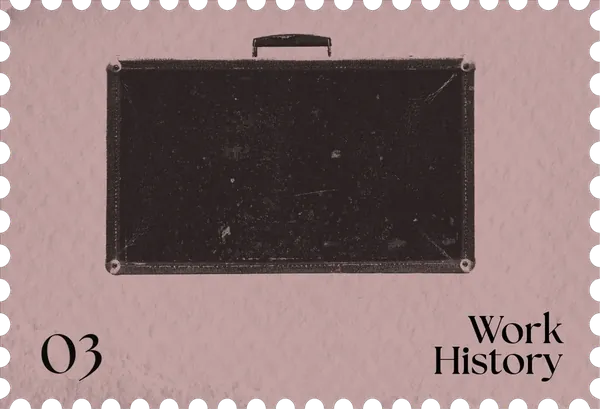
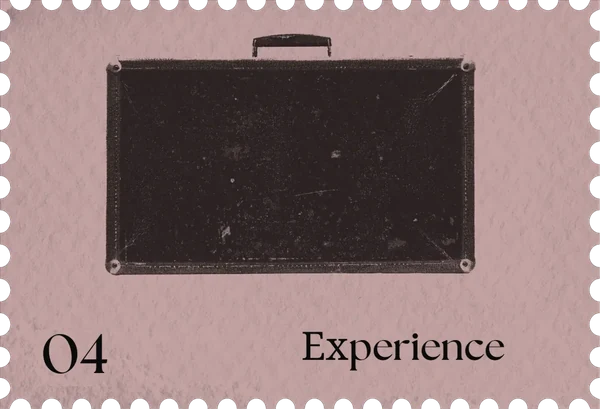
Split Websites and Projects into separate stamps, rename Experience stamp, sort Experience by end date, hide unfinished entries, add Ignite dates and GearBook role
Claude-Session: https://claude.ai/code/session_01WiGBB4NMhjYwrf1FyWGJx7

Changed region(s): [[0.51, 0.7628, 0.96, 0.9389], [0.06, 0.8215, 0.18, 0.9389]]

diff --git a/src/lib/content.ts b/src/lib/content.ts
@@ -1,7 +1,7 @@
 import { urlFor } from './sanity';
 import { SEED_PHOTOGRAPHY, PROFILE_PHOTO, BIO_SHORT, EDUCATION, FUN_NOTE, SEED_CRAFTS, SEED_EXPERIENCE, SEED_POSTERS, SEED_PROJECTS } from './seed';
 
-export type SectionId = 'projects' | 'posters' | 'experience' | 'about' | 'crafts' | 'photography';
+export type SectionId = 'websites' | 'projects' | 'posters' | 'experience' | 'about' | 'crafts' | 'photography';
 
 export interface Section {
   id: SectionId;
@@ -37,6 +37,8 @@ export interface Project {
   title: string; slug: string; summary?: string; featured?: boolean; year?: number;
   disciplines?: string[]; role?: string; heroImage?: string; /** Card cover; falls back to heroImage */ cover?: string; images?: string[]; imageAlts?: string[]; accent?: string;
   videoUrl?: string; href?: string; linkLabel?: string;
+  /** Kept in the data but not shown anywhere until it has content. */
+  hidden?: boolean;
   stack?: Partial<Record<StackGroup, string[]>>;
   /** Optional case-study extras, rendered the same way on any project detail page. */
   extras?: ProjectExtras;
@@ -67,6 +69,8 @@ export interface ProjectExtras {
   cursorIcons?: string[];
 }
 export interface Craft {
+  /** Kept in the data but not shown until it has content. */
+  hidden?: boolean;
   title: string; slug: string; summary?: string; year?: number; role?: string;
   /** Card cover: one animated image (gif or animated webp). */
   cover?: string; /** Large image on the detail page. */ heroImage?: string; image?: string; notes?: string;
@@ -125,7 +129,6 @@ function extrasHtml(p: Project) {
   const notes = (x.notes || []).map((n) => `<div class="xnote"><h3>${esc(n.heading)}</h3><p>${esc(n.body)}</p></div>`).join('');
   return `<div class="detail-extra">${figs ? `<div class="xfigs">${figs}</div>` : ''}${stats ? `<dl class="xstats">${stats}</dl>` : ''}${notes ? `<div class="xnotes">${notes}</div>` : ''}</div>`;
 }
-const GROUPS = ['Developments', 'Websites', 'Branding', 'Projects', 'Ignite Adaptive Sports'];
 /** Cards plus full-screen detail pages, shared by Projects and Crafts. */
 function workViews(items: Project[], noun: string, defaultMeta: string) {
   const c = { projects: items };
@@ -140,7 +143,7 @@ function workViews(items: Project[], noun: string, defaultMeta: string) {
       <span class="card-img${cardCover(p) ? ' has-img' : ''}" style="--c:${safeColor(p.accent) || accents[i % accents.length]}">${cardCover(p) ? `<img class="card-photo" src="${esc(encodeURI(cardCover(p)))}" alt="" loading="lazy" decoding="async">` : ''}</span>
       <span class="card-over"><span class="card-name">${esc(p.title)}</span><span class="card-sub">${esc([p.role, p.year].filter(Boolean).join(' · '))}</span></span>
     </button>`;
-  const siblings = (p: Project) => c.projects.filter((q) => (q.disciplines || [])[0] === (p.disciplines || [])[0]);
+  const siblings = (_p: Project) => c.projects;
   const stepper = (p: Project) => {
     const sib = siblings(p);
     if (sib.length < 2) return '';
@@ -170,17 +173,22 @@ function workViews(items: Project[], noun: string, defaultMeta: string) {
     </div>`;
   return { card, detail };
 }
-function projectsHtml(c: SiteContent) {
-  const { card, detail } = workViews(c.projects, 'project', 'Project');
-  const groups = [...new Set([...GROUPS, ...c.projects.flatMap((p) => p.disciplines || [])])];
-  const html = groups.map((g) => {
-    const items = c.projects.filter((p) => (p.disciplines || [])[0] === g);
-    return items.length ? `<section><h2 class="group"><span>${esc(g)}</span></h2><div class="cards">${items.map(card).join('')}</div></section>` : '';
-  }).join('');
-  return `${html}${c.projects.map(detail).join('')}${todo('Titles are from Matt’s list. Images, descriptions and links are still to come.')}`;
+/** Websites and Projects are separate stamps: a site is a Project whose first discipline is "Websites". */
+export const isSite = (p: Project) => (p.disciplines || [])[0] === 'Websites';
+function worksHtml(items: Project[], noun: string, defaultMeta: string, note: string) {
+  const { card, detail } = workViews(items, noun, defaultMeta);
+  return `<section><div class="cards">${items.map(card).join('')}</div></section>${items.map(detail).join('')}${todo(note)}`;
 }
+const websitesHtml = (c: SiteContent) => worksHtml(c.projects.filter(isSite), 'website', 'Website', 'More sites are on the way.');
+const projectsHtml = (c: SiteContent) => worksHtml(c.projects.filter((p) => !isSite(p)), 'project', 'Project', 'More projects are on the way.');
+const MONTHS = ['jan', 'feb', 'mar', 'apr', 'may', 'jun', 'jul', 'aug', 'sep', 'oct', 'nov', 'dec'];
+/** "August 2025" -> a sortable number; missing or unreadable dates give -1. */
+const when = (d = '') => { const m = d.match(/([a-z]{3})[a-z]*\.?\s+(\d{4})/i); const y = d.match(/\d{4}/); return m ? +m[2] * 12 + Math.max(0, MONTHS.indexOf(m[1].toLowerCase())) : y ? +y[0] * 12 : -1; };
+const isOpen = (e: Experience) => !e.endDate || /present|current|now/i.test(e.endDate);
+/** Open roles first, then by end date (newest first); ties go to the later start. */
+const byEnd = (a: Experience, b: Experience) => (+isOpen(b) - +isOpen(a)) || (isOpen(a) ? 0 : when(b.endDate) - when(a.endDate)) || when(b.startDate) - when(a.startDate);
 function experienceHtml(c: SiteContent) {
-  const items = c.experience.map((e) => {
+  const items = [...c.experience].sort(byEnd).map((e) => {
     const head = `<span class="meta">${esc(dates(e))}</span><h2>${esc(e.role)}, ${esc(e.organization)}</h2>`;
     return e.description
       ? `<li><details class="job"><summary>${head}<span class="job-toggle" aria-hidden="true"></span></summary><p>${esc(e.description)}</p></details></li>`
@@ -240,27 +248,33 @@ function aboutHtml() {
     <p class="meta">Elsewhere</p><ul class="links">${links}<li><a href="mailto:${SITE.email}">${SITE.email}</a></li></ul>`;
 }
 
+/** Drops entries flagged hidden. */
+const visible = (c: SiteContent): SiteContent => ({ ...c, projects: c.projects.filter((p) => !p.hidden), crafts: c.crafts.filter((k) => !k.hidden) });
+
 /** Plain, text-only outline of the whole site, rendered into the static HTML (inside <noscript>) for crawlers, link readers and no-JS visitors. */
-export function outlineHtml(c: SiteContent): string {
+export function outlineHtml(all: SiteContent): string {
+  const c = visible(all);
   const li = (t: string, d?: string) => `<li><strong>${esc(t)}</strong>${d ? ` ${esc(d)}` : ''}</li>`;
-  const groups = [...new Set(c.projects.flatMap((p) => (p.disciplines || [])[0] || []))];
   return `<h1>${esc(SITE.name)}, ${esc(SITE.role)}</h1>
 <h2>About</h2>${BIO_SHORT.map((t) => `<p>${esc(t)}</p>`).join('')}
-<h2>Projects</h2>${groups.map((g) => `<h3>${esc(g)}</h3><ul>${c.projects.filter((p) => (p.disciplines || [])[0] === g).map((p) => li(p.title, [p.role, p.year].filter(Boolean).join(', '))).join('')}</ul>`).join('')}
-<h2>Experience</h2><ul>${c.experience.map((e) => li(`${e.role}, ${e.organization}`, dates(e))).join('')}</ul>
+<h2>Websites</h2><ul>${c.projects.filter(isSite).map((p) => li(p.title, [p.role, p.year].filter(Boolean).join(', '))).join('')}</ul>
+<h2>Projects</h2><ul>${c.projects.filter((p) => !isSite(p)).map((p) => li(p.title, [p.role, p.year].filter(Boolean).join(', '))).join('')}</ul>
+<h2>Experience</h2><ul>${[...c.experience].sort(byEnd).map((e) => li(`${e.role}, ${e.organization}`, dates(e))).join('')}</ul>
 <h2>Crafts</h2><ul>${c.crafts.map((k) => li(k.title, k.role)).join('')}</ul>
 <h2>Elsewhere</h2><ul>${SITE.links.map((l) => `<li><a href="${esc(l.href)}">${esc(l.label)}</a></li>`).join('')}<li><a href="mailto:${SITE.email}">${SITE.email}</a></li></ul>`;
 }
 
-export function buildSections(c: SiteContent): Section[] {
+export function buildSections(all: SiteContent): Section[] {
+  const c = visible(all);
   const L = (id: SectionId, no: string, label: string, stampName: string, art: string, html: string): Section => ({ id, no, label, stampName, orientation: 'landscape', ratio: 1658 / 1130, alt: `${stampName} stamp, ${art}`, html });
   return [
-    L('projects', '01', 'Projects', 'Web & Graphic Design', 'a vintage computer', projectsHtml(c)),
-    L('posters', '02', 'Posters', 'Posters', 'two printed posters', postersHtml(c)),
-    L('experience', '03', 'Experience', 'Work History', 'a vintage suitcase', experienceHtml(c)),
-    L('crafts', '04', 'Crafts', 'Crafts', 'six pieces of pottery', craftsHtml(c)),
-    L('photography', '05', 'Photography', 'Photography', 'a Minolta X-700 film camera', photographyHtml(c)),
-    L('about', '06', 'About', 'About', 'a halftone portrait of Matt', aboutHtml()),
+    L('websites', '01', 'Websites', 'Websites', 'a vintage computer', websitesHtml(c)),
+    L('projects', '02', 'Projects', 'Projects', 'a stack of project work', projectsHtml(c)),
+    L('posters', '03', 'Posters', 'Posters', 'two printed posters', postersHtml(c)),
+    L('experience', '04', 'Experience', 'Experience', 'a vintage suitcase', experienceHtml(c)),
+    L('crafts', '05', 'Crafts', 'Crafts', 'six pieces of pottery', craftsHtml(c)),
+    L('photography', '06', 'Photography', 'Photography', 'a Minolta X-700 film camera', photographyHtml(c)),
+    L('about', '07', 'About', 'About', 'a halftone portrait of Matt', aboutHtml()),
   ];
 }
 

diff --git a/src/lib/seed.ts b/src/lib/seed.ts
@@ -23,13 +23,14 @@ export const FUN_NOTE = 'Owner of a 2003 Eurovan!';
 
 export const SEED_EXPERIENCE: Experience[] = [
   { organization: 'GVC', role: 'Graphic Design, 3D Modelling, Web Design', startDate: 'August 2025', endDate: 'Present', description: 'Full-time graphic designer on the Gasdaska Verdiglione Conlon Team at Douglas Elliman. Designs and builds marketing websites for new developments, including Le Rêve and Casa Avenida, alongside graphic design and 3D modelling for the team.' },
+  { organization: 'GearBook, Boulder, CO', role: 'Co-founder & CMO', startDate: '2025', endDate: 'Present', description: 'Co-founded an affiliate gear catalog for outdoor professionals with Luke Wong. Handles design, development, content, marketing, partner integrations and the legal side, and has signed up 15 members so far.' },
   { organization: 'Trimble', role: 'Business Systems Management & Design', startDate: 'May 2025', endDate: 'August 2025', description: 'Created intranet pages for the DevOps, Change Management and Business Systems teams, and wrote posts that kept stakeholders up to date on Trimble’s software development cycle. Designed a brand identity for the Business Systems team, including a logo, marketing assets and a voice.' },
   { organization: 'Environmental Center, University of Colorado Boulder', role: 'Graphic Designer', startDate: 'May 2022', endDate: 'August 2025', description: 'Designed social posts promoting sustainability and an eco-conscious mindset across the campus community. Grew engagement by 10% and helped build the largest audience the account has had in its ten years, reaching 52,886 people in a single month.' },
   { organization: 'millerBlaker, Bronx, NY', role: 'Associate Project Manager & Intern on Engineering Team', startDate: 'May 2024', endDate: 'August 2024', description: 'Worked through the full architectural millwork workflow: client relations, drafting, engineering, estimating and in-house fabrication. Contributed to high-profile projects including Google team pods, Morgan Stanley and L’Oréal.' },
   { organization: 'Free Float Media LLC, Boulder, CO', role: 'Web Developer', startDate: 'May 2023', endDate: 'October 2023', description: 'Strengthened brand recognition and cohesion for Free Float Media across several websites and social channels, and reviewed and improved digital design and layout.' },
   { organization: 'Gravity Vault Indoor Rock Climbing, Upper Saddle River, NJ', role: 'Instructor', startDate: 'May 2022', endDate: 'August 2023' },
   { organization: 'Woodward Camps, Woodward, PA', role: 'Recreational Staff', startDate: 'May 2021', endDate: 'August 2022' },
-  { organization: 'Ignite Adaptive Sports', role: 'Pro Bono Graphic Design & Event Marketing, On-Snow Volunteer', description: 'Unpaid design and event marketing work for a nonprofit that opens up snowsports to athletes of all ages, disabilities and financial circumstances at Eldora Mountain Resort, plus on-snow volunteering that supports athletes in their lessons.' },
+  { organization: 'Ignite Adaptive Sports', role: 'Pro Bono Graphic Design & Event Marketing, On-Snow Volunteer', startDate: 'May 2026', endDate: 'Present', description: 'Unpaid design and event marketing work for a nonprofit that opens up snowsports to athletes of all ages, disabilities and financial circumstances at Eldora Mountain Resort, plus on-snow volunteering that supports athletes in their lessons.' },
 ];
 
 const asset = (path: string) => `${process.env.NEXT_PUBLIC_BASE_PATH || ''}${path}`;
@@ -188,8 +189,8 @@ export const SEED_PROJECTS: Project[] = [
     heroImage: asset('/projects/trimble-business-systems/01.webp'),
     images: ['03'].map((n) => asset(`/projects/trimble-business-systems/${n}.webp`)),
   }),
-  p('Opus', 'Branding', { summary: 'In progress.' }),
-  p('Essays In Bloom', 'Branding', { summary: 'In progress.' }),
+  p('Opus', 'Branding', { summary: 'In progress.', hidden: true }),
+  p('Essays In Bloom', 'Branding', { summary: 'In progress.', hidden: true }),
   p('CU Skate Forge', 'Projects', {
     role: 'Founder & President',
     year: 2023,
@@ -235,8 +236,8 @@ export const SEED_CRAFTS: Craft[] = [
     images: ['01', '02', '03', '05', '06'].map((n) => craftImg('skate-rings', n)),
     imageAlts: ['Stripped skateboard decks and cut yellow and teal plywood pieces on a workbench', 'Close-up of the colored plywood layers in a sanded skateboard deck', 'Three finished skate rings and a pendant on a striped teal display block', 'A skate ring on a plaster hand', 'Pencil sketches of ring shapes on grid paper'],
   },
-  { title: 'Pottery', slug: 'pottery' },
-  { title: 'Recycled Climbing Rope Crafts', slug: craftSlug('Recycled Climbing Rope Crafts') },
+  { title: 'Pottery', slug: 'pottery', hidden: true },
+  { title: 'Recycled Climbing Rope Crafts', slug: craftSlug('Recycled Climbing Rope Crafts'), hidden: true },
 ];
 
 

diff --git a/src/lib/engine.ts b/src/lib/engine.ts
@@ -55,24 +55,26 @@ let logoCleanup = () => {};
 
 /* ---------- stamps ---------- */
 const stampEls = new Map<SectionId, HTMLButtonElement>();
-const tilt: Record<SectionId, number> = { projects: -4, posters: 2, experience: 3, about: -2, crafts: 4, photography: -3 };
+const tilt: Record<SectionId, number> = { websites: -4, projects: 3, posters: 2, experience: 3, about: -2, crafts: 4, photography: -3 };
 
 interface NavSpot { x: number; y: number; w: number }
 const navDesktop: Record<SectionId, NavSpot> = {
-  projects: { x: 0.2, y: 0.32, w: 0.21 },
-  posters: { x: 0.5, y: 0.27, w: 0.21 },
-  experience: { x: 0.8, y: 0.34, w: 0.21 },
-  crafts: { x: 0.22, y: 0.7, w: 0.21 },
-  photography: { x: 0.5, y: 0.72, w: 0.21 },
-  about: { x: 0.79, y: 0.68, w: 0.21 },
+  websites: { x: 0.14, y: 0.3, w: 0.2 },
+  projects: { x: 0.38, y: 0.26, w: 0.2 },
+  posters: { x: 0.62, y: 0.32, w: 0.2 },
+  experience: { x: 0.86, y: 0.27, w: 0.2 },
+  crafts: { x: 0.24, y: 0.7, w: 0.2 },
+  photography: { x: 0.5, y: 0.73, w: 0.2 },
+  about: { x: 0.77, y: 0.68, w: 0.2 },
 };
 const navMobile: Record<SectionId, NavSpot> = {
-  projects: { x: 0.25, y: 0.2, w: 0.4 },
-  posters: { x: 0.75, y: 0.17, w: 0.4 },
-  experience: { x: 0.25, y: 0.49, w: 0.4 },
-  crafts: { x: 0.75, y: 0.52, w: 0.4 },
-  photography: { x: 0.25, y: 0.8, w: 0.4 },
-  about: { x: 0.75, y: 0.83, w: 0.4 },
+  websites: { x: 0.25, y: 0.14, w: 0.4 },
+  projects: { x: 0.75, y: 0.12, w: 0.4 },
+  posters: { x: 0.25, y: 0.34, w: 0.4 },
+  experience: { x: 0.75, y: 0.37, w: 0.4 },
+  crafts: { x: 0.25, y: 0.58, w: 0.4 },
+  photography: { x: 0.75, y: 0.61, w: 0.4 },
+  about: { x: 0.5, y: 0.84, w: 0.4 },
 };
 /* Phones: a slight random tilt for each stamp (2 to 5 degrees, either way), fresh on every load. */
 if (window.innerWidth < 640) for (const id of Object.keys(tilt) as SectionId[]) tilt[id] = (Math.random() < 0.5 ? -1 : 1) * (2 + Math.random() * 3);
@@ -219,7 +221,7 @@ function miniSlots() {
 }
 function placeMini(id: SectionId, slot: number) {
   if (isSplit()) {
-    // One column down the left of the dark panel, all six stamps in fixed slots, above the heading.
+    // One column down the left of the dark panel, all seven stamps in fixed slots, above the heading.
     const cw = colWidth(), H = stage.clientHeight;
     const pad = Math.min(44, Math.max(24, stage.clientWidth * 0.03));
     const top = 48, bottom = 210, label = 14;
@@ -372,7 +374,7 @@ async function navToPage(id: SectionId) {
   gsap.killTweensOf([...stampEls.values()]);
   gsap.set([...stampEls.values()], { x: (_i: number, t: Element) => offsetOf((t as HTMLElement).dataset.id as SectionId).x, y: (_i: number, t: Element) => offsetOf((t as HTMLElement).dataset.id as SectionId).y, rotation: (_i: number, t: Element) => tilt[(t as HTMLElement).dataset.id as SectionId] });
   active = id;
-  order = SECTIONS.map((s) => s.id); // all six stamps stay, in fixed slots
+  order = SECTIONS.map((s) => s.id); // all seven stamps stay, in fixed slots
   const flipState = Flip.getState([...stampEls.values()]);
   state = 'page';
   stage.dataset.state = 'page'; // the footer leaves and the stage fills the screen before the column is laid out

diff --git a/src/lib/routes.ts b/src/lib/routes.ts
@@ -1,8 +1,9 @@
-import { SITE, type SectionId, type SiteContent } from './content';
+import { SITE, isSite, type SectionId, type SiteContent } from './content';
 
-/** Real URLs: /, /projects/, /projects/gearbook/. Only Projects and Crafts have per-item pages. */
+/** Real URLs: /, /projects/, /projects/gearbook/. Websites, Projects and Crafts have per-item pages. */
 export const SECTION_META: Record<SectionId, { label: string; description: string }> = {
-  projects: { label: 'Projects', description: 'Websites, branding and web apps designed and built by Matthew Bloomfield.' },
+  websites: { label: 'Websites', description: 'Websites and web apps designed and built by Matthew Bloomfield.' },
+  projects: { label: 'Projects', description: 'Developments, branding, hardware and community projects by Matthew Bloomfield.' },
   posters: { label: 'Posters', description: 'Poster and print design by Matthew Bloomfield.' },
   experience: { label: 'Experience', description: 'Work history of Matthew Bloomfield, Creative Technologist & Designer.' },
   crafts: { label: 'Crafts', description: 'Physical making by Matthew Bloomfield: 3D modeling, fabrication and handmade objects.' },
@@ -17,7 +18,7 @@ export function allRoutes(c: SiteContent): RouteInfo[] {
   (Object.keys(SECTION_META) as SectionId[]).forEach((id) => {
     const m = SECTION_META[id];
     out.push({ path: [id], title: `${m.label} · ${SITE.name}`, description: m.description });
-    const items = id === 'projects' ? c.projects : id === 'crafts' ? c.crafts : [];
+    const items = id === 'websites' ? c.projects.filter(isSite) : id === 'projects' ? c.projects.filter((p) => !isSite(p)) : id === 'crafts' ? c.crafts : [];
     items.forEach((p) => {
       if (!p.slug) return;
       const detail = [p.role, p.year].filter(Boolean).join(', ');

diff --git a/src/app/layout.tsx b/src/app/layout.tsx
@@ -4,7 +4,7 @@ import { SpeedInsights } from '@vercel/speed-insights/next';
 import { display, body, mono, footer } from './fonts';
 import './globals.css';
 
-const DESCRIPTION = 'Portfolio of Matthew Bloomfield, Creative Technologist & Designer: projects, posters, experience, crafts and photography.';
+const DESCRIPTION = 'Portfolio of Matthew Bloomfield, Creative Technologist & Designer: websites, projects, posters, experience, crafts and photography.';
 export const metadata: Metadata = {
   metadataBase: new URL('https://www.matthewsbloomfield.com'),
   title: 'Matthew Bloomfield · Creative Technologist & Designer',

diff --git a/scripts/restructure-stamps.py b/scripts/restructure-stamps.py
@@ -1,0 +1,56 @@
+"""Second stamp pass (Websites / Projects split, Experience rename, numbers 01-07).
+Run from the repo root: python3 -I scripts/restructure-stamps.py PostageStamps-renumbered.pdf
+Edits public/stamps/*.webp in place (the PDF is only used to borrow the TheSeasons-Bold font), so run it once on the
+pre-split stamps: projects.webp becomes websites.webp, a new projects.webp is built, and every -600.webp is rebuilt."""
+import sys, os, shutil, numpy as np
+from PIL import Image
+sys.argv = [sys.argv[0], sys.argv[1], 'public/stamps']
+import importlib.util
+spec = importlib.util.spec_from_file_location('ms', 'scripts/make-stamps.py'); ms = importlib.util.module_from_spec(spec); spec.loader.exec_module(ms)
+ST = 'public/stamps/'; K = ms.K
+
+def fill(img, box, src_box):
+    """Cover box with paper tiled (mirrored) from a clean source box of the same image."""
+    a = np.array(img); x0, y0, x1, y1 = box; sx0, sy0, sx1, sy1 = src_box
+    src = a[sy0:sy1, sx0:sx1]
+    reps_x = -(-(x1 - x0) // src.shape[1]); reps_y = -(-(y1 - y0) // src.shape[0])
+    row = np.concatenate([src if i % 2 == 0 else src[:, ::-1] for i in range(reps_x)], 1)
+    tile = np.concatenate([row if i % 2 == 0 else row[::-1] for i in range(reps_y)], 0)
+    a[y0:y1, x0:x1] = tile[:y1 - y0, :x1 - x0]
+    return Image.fromarray(a)
+
+# 1. Websites: old stamp art, new name
+im = Image.open(ST + 'projects.webp').convert('RGBA')
+im = fill(im, (60, 80, 470, 335), (520, 40, 900, 165))
+im = ms.draw_text(im, 'Websites', 17.3, 76, 150)
+im.save(ST + 'websites.webp', quality=90, method=6)
+
+# 2. Projects: new stamp (blue paper, dithered Bloc CNC photo and Skate Forge poster)
+alpha = np.array(Image.open(ST + 'websites.webp').convert('RGBA'))[..., 3]
+paper = fill(Image.open(ST + 'websites.webp').convert('RGBA'), (0, 0, 1000, 682), (520, 40, 900, 165))
+pa = np.array(paper).astype(float)
+target = np.array([143, 179, 201.0]); pa[..., :3] = np.clip(pa[..., :3] * (target / np.median(pa[..., :3].reshape(-1, 3), 0)), 0, 255)
+paper = Image.fromarray(np.dstack([pa[..., :3], alpha]).astype('uint8'), 'RGBA')
+def ink(path, w, angle, seed):
+    g = Image.open(path).convert('L'); g = g.resize((w, int(g.height * w / g.width)), Image.LANCZOS)
+    a = np.clip((np.array(g).astype(float) - 80) * 1.5 + 80, 0, 255)
+    dark = a + np.random.default_rng(seed).normal(0, 38, a.shape) < 128
+    rgba = np.zeros(a.shape + (4,), 'uint8'); rgba[..., :3] = (10, 12, 10); rgba[..., 3] = np.where(dark, 255, 0)
+    sheet = Image.new('RGBA', g.size, (226, 236, 242, 255)); sheet.alpha_composite(Image.fromarray(rgba, 'RGBA'))
+    return sheet.rotate(angle, expand=True, resample=Image.BICUBIC)
+for path, w, ang, cx, cy, seed in [('public/projects/bloc-cnc/01.webp', 440, 5, 500, 385, 3), ('public/projects/cu-skate-forge/01.webp', 255, -6, 790, 360, 5)]:
+    p = ink(path, w, ang, seed); paper.alpha_composite(p, (int(cx - p.width / 2), int(cy - p.height / 2)))
+arr = np.array(paper); arr[..., 3] = alpha; out = Image.fromarray(arr)
+out = ms.draw_text(out, 'Projects', 17.3, 20 * K, 40 * K)
+out = ms.draw_text(out, '02', 24.4, 18 * K, 170 * K)
+out.save(ST + 'projects.webp', quality=90, method=6); print('projects')
+
+# 3. Experience: rename; numbers shifted for everything after Projects
+im = Image.open(ST + 'experience.webp').convert('RGBA')
+im = fill(im, (700, 505, 955, 655), (440, 505, 695, 655))
+im = ms.draw_text(im, 'Experience', 17.3, 938, 600, right=True)
+im.save(ST + 'experience.webp', quality=90, method=6)
+for name, new, left in [('websites', None, True), ('posters', '03', True), ('experience', '04', True), ('crafts', '05', True), ('photography', '06', False), ('about', '07', True)]:
+    if new: ms.renumber(name, new, left, ST[:-1])
+for n in ['websites', 'projects', 'posters', 'experience', 'crafts', 'photography', 'about']:
+    i = Image.open(ST + n + '.webp'); i.resize((600, round(600 * i.height / i.width)), Image.LANCZOS).save(ST + n + '-600.webp', quality=88, method=6)
